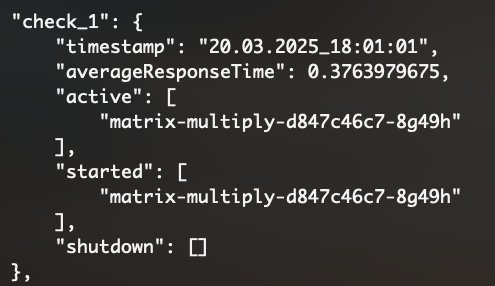
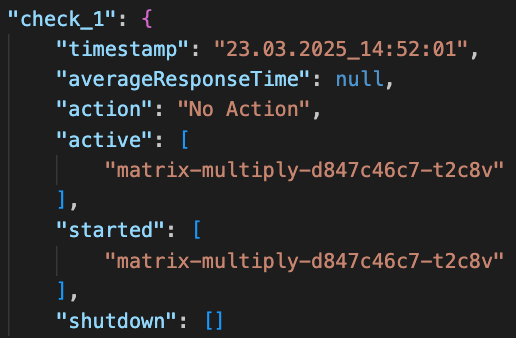
Update Scaler and related images

diff --git a/Docker/Scheduler/scheduler.py b/Docker/Scheduler/scheduler.py
@@ -77,7 +77,7 @@ def getCurrentPodNames(namespace, labelSelector = "app=matrix-multiply"):
     return {pod.metadata.name for pod in pods.items}
 
 
-def updatePodStatus(namespace, avgResponseTime):
+def updatePodStatus(namespace, avgResponseTime, action):
 
     # Get current active pods
     currentPods = getCurrentPodNames(namespace)
@@ -118,11 +118,13 @@ def updatePodStatus(namespace, avgResponseTime):
         previousActive = set()
         started = list(currentPods)             # All pods are new in check_1
         shutdown = []
+        action = 'No Action'
     
     newStatus = {
 
         "timestamp": datetime.now().strftime("%d.%m.%Y_%H:%M:%S"),
         "averageResponseTime": avgResponseTime,
+        "action": action,
         "active": list(currentPods),
         "started": started,
         "shutdown": shutdown
@@ -149,13 +151,21 @@ def main():
     if avgResponseTime is None:
 
         replicas = currentReplicas - 1 if currentReplicas > 1 else 1
+        
+        if currentReplicas == 1:
+            action = 'No Action'
+
+        else: 
+            action = 'Shutdown a pod'
 
     elif avgResponseTime > 0.6:
         
         replicas = currentReplicas + 1
+        action = 'Start a new pod'
 
     else:
         replicas = currentReplicas - 1 if currentReplicas > 1 else 1
+        action = 'Shutdown a pod'
 
     updateReplicasNumber(deploymentName, namespace, replicas)
     
@@ -163,7 +173,7 @@ def main():
     moveAnalyzedFiles()
     
     # Update the pod status file with active, started and shutdown pods
-    updatePodStatus(namespace, avgResponseTime)
+    updatePodStatus(namespace, avgResponseTime, action)
 
 
 if __name__ == "__main__":

diff --git a/README.md b/README.md
@@ -141,11 +141,21 @@ pip install -r requirements.txt
 
 2. **Run the test**: try to run it after the first check to observe how the replicas number changes
 
-<p align="center">
-  <img src="Images/Check%201.png" alt="First Check" width="30%">
-  <img src="Images/Check%202.png" alt="Second Check" width="30%">
-  <img src="Images/Check%203.png" alt="Third Check" width="30%">
-</p>
+<div align="center">
+  
+  <div style="display: flex; justify-content: center; gap: 10px;">
+    <img src="Images/Check%201.png" alt = "First Check" width = "30%">
+    <img src="Images/Check%202.png" alt = "Second Check" width = "30%">
+    <img src="Images/Check%203.png" alt = "Third Check" width = "30%">
+  </div>
+
+  
+  <div style="display: flex; justify-content: center; gap: 10px; margin-top: 10px;">
+    <img src="Images/Check%204.png" alt = "Fourth Check" width = "30%">
+    <img src="Images/Check%205.png" alt = "Fifth Check" width = "30%">
+    <img src="Images/Check%206.png" alt = "Sixth Check" width = "30%">
+  </div>
+</div>
 
 
 ## Monitoring the system
